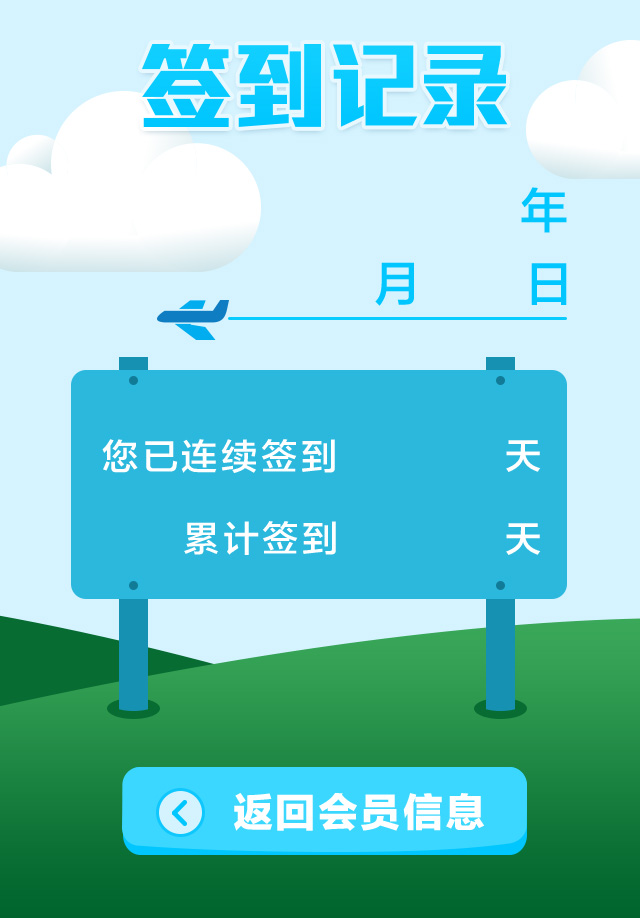
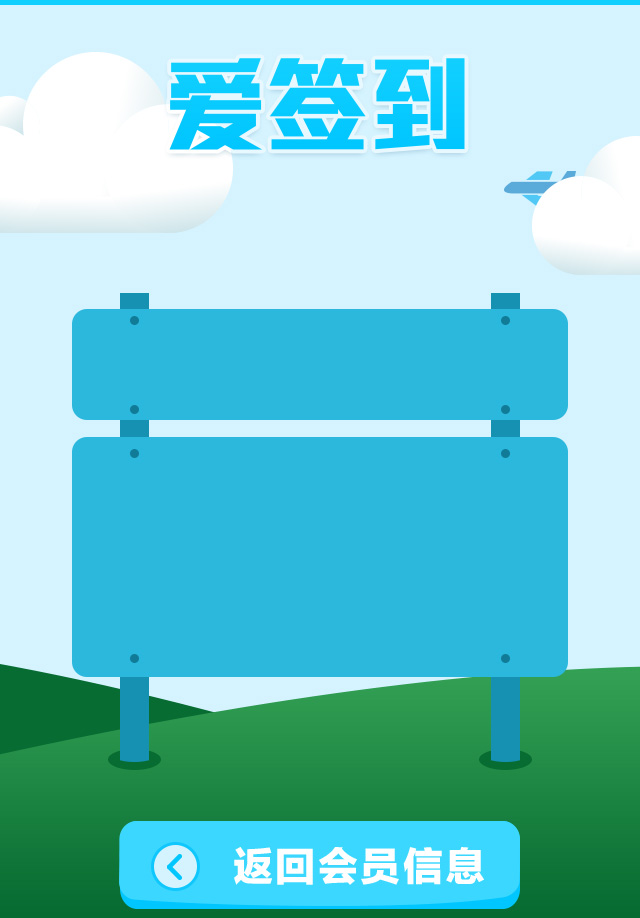
update 签到

diff --git a/src/wechat/css/wechat.css b/src/wechat/css/wechat.css
@@ -1,2 +1,295 @@
-html,body,h1,h2,h3,h4,h5,h6,div,dl,dt,dd,ul,ol,li,p,blockquote,pre,hr,figure,table,caption,th,td,form,fieldset,legend,input,button,textarea,menu{margin:0;padding:0}header,footer,section,article,aside,nav,hgroup,address,figure,figcaption,menu,details{display:block}table{border-collapse:collapse;border-spacing:0}caption,th{text-align:left;font-weight:normal}html,body,fieldset,img,iframe,abbr{border:0}i,cite,em,var,address,dfn{font-style:normal}[hidefocus],summary{outline:0}li{list-style:none}h1,h2,h3,h4,h5,h6,small{font-size:100%}sup,sub{font-size:83%}pre,code,kbd,samp{font-family:inherit}q:before,q:after{content:none}textarea{overflow:auto;resize:none}label,summary{cursor:default}a,button{cursor:pointer}h1,h2,h3,h4,h5,h6,em,strong,b{font-weight:bold}del,ins,u,s,a,a:hover{text-decoration:none}body,textarea,input,button,select,keygen,legend{font:12px/1.14 arial, \5b8b\4f53;color:#333;outline:0}body{background:#fff}a,a:hover{color:#333}*{box-sizing:border-box;-moz-box-sizing:border-box;-webkit-box-sizing:border-box}html{font-size:10px}@media screen and (width: 360px){html{font-size:11.25px}}@media screen and (width: 400px){html{font-size:12.5px}}@media screen and (width: 480px){html{font-size:15px}}@media screen and (width: 540px){html{font-size:16.875px}}@media screen and (width: 600px){html{font-size:18.75px}}@media screen and (width: 640px){html{font-size:20px}}@media screen and (width: 720px){html{font-size:22.5px}}@media screen and (width: 768px){html{font-size:24px}}@media screen and (width: 800px){html{font-size:25px}}@media screen and (width: 960px){html{font-size:30px}}@media screen and (width: 1024px){html{font-size:32px}}.header{font-family:'\9ED1\4F53';position:relative;z-index:2;height:4.1rem;background-color:#11cfff}.header img{position:absolute;top:1rem;left:2.1rem;width:6.1rem;height:2.2rem}.header .menu{position:absolute;top:1.2rem;right:3rem;width:2.1rem;height:1.65rem;background:url("../images/menu.jpg") no-repeat 0 0;background-size:cover}.header .menu-box{display:none;position:absolute;top:5.5rem;right:2.5rem;padding-top:1.7rem;width:8.5rem;height:12.5rem;background-color:#fff;border-radius:2.5rem;color:#218ed2;-webkit-box-shadow:2px 2px 2px;-moz-box-shadow:2px 2px 2px;box-shadow:2px 2px 2px}.header .menu-box li{display:block;margin:0 auto;width:70%;height:2.4rem;line-height:2.4rem;font-size:1.2rem;font-weight:bold;border-bottom:1px solid #218ed2}.header .menu-box li:last-child{border-bottom:none 0}.f-cb:after{display:block;clear:both;visibility:hidden;height:0;overflow:hidden;content:"."}.f-cb{zoom:1}body.signin{background-color:#afe9ff}.m-signin{font-family:'\9ED1\4F53';background:url("../images/signin-bg.jpg") no-repeat center top;background-size:100%}.m-signin .main-wrap{padding:10.5rem 2.5rem 2.5rem}.m-signin .main{margin-bottom:2.3rem;height:16.15rem;padding:2.06rem 0 0 3.7rem;color:#11cfff}.m-signin .profile{float:left;width:8.6rem}.m-signin .profile .avatar{padding:0.6rem 0 0 0.6rem;width:8.6rem;height:9.6rem;background:url("../images/avatar-bg.png") no-repeat 0 0;background-size:100%}.m-signin .profile .avatar img{display:block;width:90%;border-radius:50%}.m-signin .profile .user{font-size:1.1rem;line-height:1.5rem;font-weight:bold;text-align:center}.m-signin .profile .user span{display:inline-block;margin-bottom:-0.2rem;width:0.95rem;height:1rem}.m-signin .profile .user span.male{background:url("../images/male.jpg") no-repeat 0 0;background-size:100%}.m-signin .profile .user span.female{background:url("../images/female.jpg") no-repeat 0 0;background-size:100%}.m-signin .profile .position{font-size:1rem;line-height:1.5rem;text-align:center}.m-signin .profile .position span{display:inline-block;margin-bottom:-0.2rem;width:0.65rem;height:1rem;background:url("../images/position.jpg") no-repeat 0 0;background-size:100%}.m-signin .member{margin-left:9.8rem}.m-signin .member h1{height:3.3rem;line-height:3.3rem;font-size:1.6rem;font-weight:bold}.m-signin .member h2{margin-bottom:2rem;height:1.8rem;line-height:1.8rem;font-size:1.4rem;font-weight:normal}.m-signin .member h2 span{font-weight:bold}.m-signin .member .score{height:3.5rem;line-height:3.5rem;font-size:3rem}.m-signin .member .score span{font-size:1.2rem}.m-signin .btns{height:14.5rem}.m-signin .btns a{display:block;margin-bottom:2.75rem;height:4.5rem;text-indent:-999rem}body.record{background-color:#01652d}.m-record{font-family:'\9ED1\4F53';background:url("../images/record-bg.jpg") no-repeat center top;background-size:100%;padding:8.3rem 0 3.1rem 0}.m-record .date{margin-bottom:4.8rem;padding-left:13.5rem;height:7.2rem;font-size:3.5rem;color:#3bd7ff}.m-record .date .year{height:4.2rem;line-height:4.2rem;text-indent:3.8rem}.m-record .date .month,.m-record .date .day{float:left;height:3rem;line-height:3rem}.m-record .date .month{padding:0 4rem 0 1rem}.m-record .days{margin-bottom:8.8rem;padding-left:18.5rem;height:9.2rem;color:#fff;text-align:center}.m-record .days .continuous{width:5.8rem;height:4.3rem;line-height:4.3rem;font-size:4.5rem}.m-record .days .total{width:5.8rem;height:4.9rem;line-height:4.9rem;font-size:3rem}.m-record .btn{margin:0 auto;width:20.3rem;height:4.4rem}
+/* reset */
+html, body, h1, h2, h3, h4, h5, h6, div, dl, dt, dd, ul, ol, li, p, blockquote, pre, hr, figure, table, caption, th, td, form, fieldset, legend, input, button, textarea, menu {
+  margin: 0;
+  padding: 0; }
+
+header, footer, section, article, aside, nav, hgroup, address, figure, figcaption, menu, details {
+  display: block; }
+
+table {
+  border-collapse: collapse;
+  border-spacing: 0; }
+
+caption, th {
+  text-align: left;
+  font-weight: normal; }
+
+html, body, fieldset, img, iframe, abbr {
+  border: 0; }
+
+i, cite, em, var, address, dfn {
+  font-style: normal; }
+
+[hidefocus], summary {
+  outline: 0; }
+
+li {
+  list-style: none; }
+
+h1, h2, h3, h4, h5, h6, small {
+  font-size: 100%; }
+
+sup, sub {
+  font-size: 83%; }
+
+pre, code, kbd, samp {
+  font-family: inherit; }
+
+q:before, q:after {
+  content: none; }
+
+textarea {
+  overflow: auto;
+  resize: none; }
+
+label, summary {
+  cursor: default; }
+
+a, button {
+  cursor: pointer; }
+
+h1, h2, h3, h4, h5, h6, em, strong, b {
+  font-weight: bold; }
+
+del, ins, u, s, a, a:hover {
+  text-decoration: none; }
+
+body, textarea, input, button, select, keygen, legend {
+  font: 12px/1.14 arial, \5b8b\4f53;
+  color: #333;
+  outline: 0; }
+
+body {
+  background: #fff; }
+
+a, a:hover {
+  color: #333; }
+
+* {
+  box-sizing: border-box;
+  -moz-box-sizing: border-box;
+  /* Firefox */
+  -webkit-box-sizing: border-box; }
+
+html {
+  font-size: 20px; }
+
+@media screen and (width: 360px) {
+  html {
+    font-size: 22.5px; } }
+@media screen and (width: 400px) {
+  html {
+    font-size: 25px; } }
+@media screen and (width: 480px) {
+  html {
+    font-size: 30px; } }
+@media screen and (width: 540px) {
+  html {
+    font-size: 33.75px; } }
+@media screen and (width: 600px) {
+  html {
+    font-size: 37.5px; } }
+@media screen and (width: 640px) {
+  html {
+    font-size: 40px; } }
+@media screen and (width: 720px) {
+  html {
+    font-size: 45px; } }
+@media screen and (width: 768px) {
+  html {
+    font-size: 48px; } }
+@media screen and (width: 800px) {
+  html {
+    font-size: 50px; } }
+@media screen and (width: 960px) {
+  html {
+    font-size: 60px; } }
+@media screen and (width: 1024px) {
+  html {
+    font-size: 64px; } }
+.header {
+  font-family: '\9ED1\4F53';
+  position: relative;
+  z-index: 2;
+  height: 4.1rem;
+  background-color: #11cfff; }
+  .header img {
+    position: absolute;
+    top: 1rem;
+    left: 2.1rem;
+    width: 6.1rem;
+    height: 2.2rem; }
+  .header .menu {
+    position: absolute;
+    top: 1.2rem;
+    right: 3rem;
+    width: 2.1rem;
+    height: 1.65rem;
+    background: url("../images/menu.jpg") no-repeat 0 0;
+    background-size: cover; }
+  .header .menu-box {
+    display: none;
+    position: absolute;
+    top: 5.5rem;
+    right: 2.5rem;
+    padding-top: 1.7rem;
+    width: 8.5rem;
+    height: 12.5rem;
+    background-color: #fff;
+    border-radius: 2.5rem;
+    color: #218ed2;
+    -webkit-box-shadow: 2px 2px 2px;
+    -moz-box-shadow: 2px 2px 2px;
+    box-shadow: 2px 2px 2px; }
+    .header .menu-box li {
+      display: block;
+      margin: 0 auto;
+      width: 70%;
+      height: 2.4rem;
+      line-height: 2.4rem;
+      font-size: 1.2rem;
+      font-weight: bold;
+      border-bottom: 1px solid #218ed2; }
+    .header .menu-box li:last-child {
+      border-bottom: none 0; }
+
+.f-cb:after {
+  display: block;
+  clear: both;
+  visibility: hidden;
+  height: 0;
+  overflow: hidden;
+  content: "."; }
+
+.f-cb {
+  zoom: 1; }
+
+body.signin {
+  background-color: #afe9ff; }
+
+.m-signin {
+  font-family: '\9ED1\4F53';
+  background: url("../images/signin-bg.jpg") no-repeat center top;
+  background-size: 100%; }
+  .m-signin .main-wrap {
+    padding: 10.5rem 2.5rem 2.5rem; }
+  .m-signin .main {
+    margin-bottom: 2.3rem;
+    height: 16.15rem;
+    padding: 2.06rem 0 0 3.7rem;
+    color: #11cfff; }
+  .m-signin .profile {
+    float: left;
+    width: 8.6rem; }
+    .m-signin .profile .avatar {
+      padding: 0.6rem 0 0 0.6rem;
+      width: 8.6rem;
+      height: 9.6rem;
+      background: url("../images/avatar-bg.png") no-repeat 0 0;
+      background-size: 100%; }
+      .m-signin .profile .avatar img {
+        display: block;
+        width: 90%;
+        border-radius: 50%; }
+    .m-signin .profile .user {
+      font-size: 1.1rem;
+      line-height: 1.5rem;
+      font-weight: bold;
+      text-align: center; }
+      .m-signin .profile .user span {
+        display: inline-block;
+        margin-bottom: -0.2rem;
+        width: 0.95rem;
+        height: 1rem; }
+        .m-signin .profile .user span.male {
+          background: url("../images/male.jpg") no-repeat 0 0;
+          background-size: 100%; }
+        .m-signin .profile .user span.female {
+          background: url("../images/female.jpg") no-repeat 0 0;
+          background-size: 100%; }
+    .m-signin .profile .position {
+      font-size: 1rem;
+      line-height: 1.5rem;
+      text-align: center; }
+      .m-signin .profile .position span {
+        display: inline-block;
+        margin-bottom: -0.2rem;
+        width: 0.65rem;
+        height: 1rem;
+        background: url("../images/position.jpg") no-repeat 0 0;
+        background-size: 100%; }
+  .m-signin .member {
+    margin-left: 9.8rem; }
+    .m-signin .member h1 {
+      height: 3.3rem;
+      line-height: 3.3rem;
+      font-size: 1.6rem;
+      font-weight: bold; }
+    .m-signin .member h2 {
+      margin-bottom: 2rem;
+      height: 1.8rem;
+      line-height: 1.8rem;
+      font-size: 1.4rem;
+      font-weight: normal; }
+      .m-signin .member h2 span {
+        font-weight: bold; }
+    .m-signin .member .score {
+      height: 3.5rem;
+      line-height: 3.5rem;
+      font-size: 3rem; }
+      .m-signin .member .score span {
+        font-size: 1.2rem; }
+  .m-signin .btns {
+    height: 14.5rem; }
+    .m-signin .btns a {
+      display: block;
+      margin-bottom: 2.75rem;
+      height: 4.5rem;
+      text-indent: -999rem; }
+
+body.record {
+  background-color: #01652d; }
+
+.m-record {
+  font-family: '\9ED1\4F53';
+  background: #01652d url("../images/record-bg.jpg") no-repeat center top;
+  background-size: 100%;
+  overflow: hidden; }
+  .m-record .year {
+    margin-top: 7.6rem;
+    display: block;
+    text-align: center;
+    height: 2.75rem;
+    line-height: 2.75rem;
+    font-size: 1.5rem;
+    color: #ffffff; }
+  .m-record .days {
+    margin-top: 0.4rem;
+    height: 6rem;
+    padding-right: 2.5rem;
+    padding-top: 1rem; }
+    .m-record .days .continuous {
+      margin: 0;
+      text-align: right;
+      font-size: 0.9rem;
+      color: #fff; }
+      .m-record .days .continuous span {
+        font-size: 2.25rem;
+        padding: 0 0.9rem; }
+    .m-record .days .total {
+      text-align: right;
+      font-size: 0.9rem;
+      color: #fff; }
+      .m-record .days .total span {
+        font-size: 1.5rem;
+        padding: 0 1.2rem; }
+  .m-record .btn {
+    margin: 3.6rem auto 0;
+    width: 10rem;
+    height: 2.2rem; }
+    .m-record .btn a {
+      display: block;
+      width: 100%;
+      height: 100%; }
+
 /*# sourceMappingURL=wechat.css.map */

diff --git a/src/wechat/sass/pages/_record.scss b/src/wechat/sass/pages/_record.scss
@@ -2,51 +2,34 @@
 body.record {background-color: #01652d;}
 .m-record {
   font-family: '\9ED1\4F53';
-  background: url("../images/record-bg.jpg") no-repeat center top;
+  background:#01652d  url("../images/record-bg.jpg") no-repeat center top;
   background-size: 100%;
-  padding: 8.3rem 0 3.1rem 0;
-  .date {
-    margin-bottom: 4.8rem;
-    padding-left: 13.5rem;
-    height: 7.2rem;
-    font-size: 3.5rem;
-    color: #3bd7ff;
+  overflow: hidden;
     .year {
-      height: 4.2rem;
-      line-height: 4.2rem;
-      text-indent: 3.8rem;
+      margin-top: 7.6rem;
+      display: block;
+      text-align: center;
+      height: 2.75rem;
+      line-height:2.75rem;
+      font-size:1.5rem;
+      color:#ffffff;
     }
-    .month,.day {
-      float: left;
-      height: 3rem;
-      line-height: 3rem;
-    }
-    .month {
-      padding: 0 4rem 0 1rem;
-    }
-  }
   .days {
-    margin-bottom: 8.8rem;
-    padding-left: 18.5rem;
-    height: 9.2rem;
-    color: #fff;
-    text-align: center;
-    .continuous {
-      width: 5.8rem;
-      height: 4.3rem;
-      line-height: 4.3rem;
-      font-size: 4.5rem;
+    margin-top: 0.4rem;
+    height: 6rem;
+    padding-right: 2.5rem;
+    padding-top:1rem;
+    .continuous{ margin:0;text-align: right;font-size:0.9rem; color:#fff;
+      span{font-size:2.25rem; padding: 0 0.9rem;}
     }
-    .total {
-      width: 5.8rem;
-      height: 4.9rem;
-      line-height: 4.9rem;
-      font-size: 3rem;
+    .total{ text-align:right;font-size:0.9rem; color:#fff;
+        span{font-size:1.5rem; padding: 0 1.2rem;}
     }
   }
   .btn {
-    margin: 0 auto;
-    width: 20.3rem;
-    height: 4.4rem;
+    margin: 3.6rem auto 0;
+    width: 10rem;
+    height: 2.2rem;
+    a{display: block;width:100%; height: 100%;}
   }
 }

diff --git a/src/wechat/record.html b/src/wechat/record.html
@@ -16,14 +16,10 @@
     <img src="images/logo.png" alt="airpal"/>
 </header>
 <section class="m-record">
-    <div class="date f-cb">
-        <div class="year">2014</div>
-        <div class="month">12</div>
-        <div class="day">20</div>
-    </div>
+    <div class="year">2014年12月20日</div>
     <div class="days">
-        <div class="continuous">43</div>
-        <div class="total">50</div>
+        <div class="continuous">您已连续签到 <span>43</span>天 </div>
+        <div class="total">累计签到 <span>50</span>天</div>
     </div>
     <div class="btn"><a href="#" title="返回会员信息"></a></div>
 </section>

diff --git a/src/wechat/sass/helper/_global.scss b/src/wechat/sass/helper/_global.scss
@@ -1,5 +1,5 @@
 @charset "utf-8";
-$rem:10px;
+$rem:20px;
 html {font-size: $rem;}
 @media screen and (width: 360px) {
   html {font-size: $rem * 1.125;}
